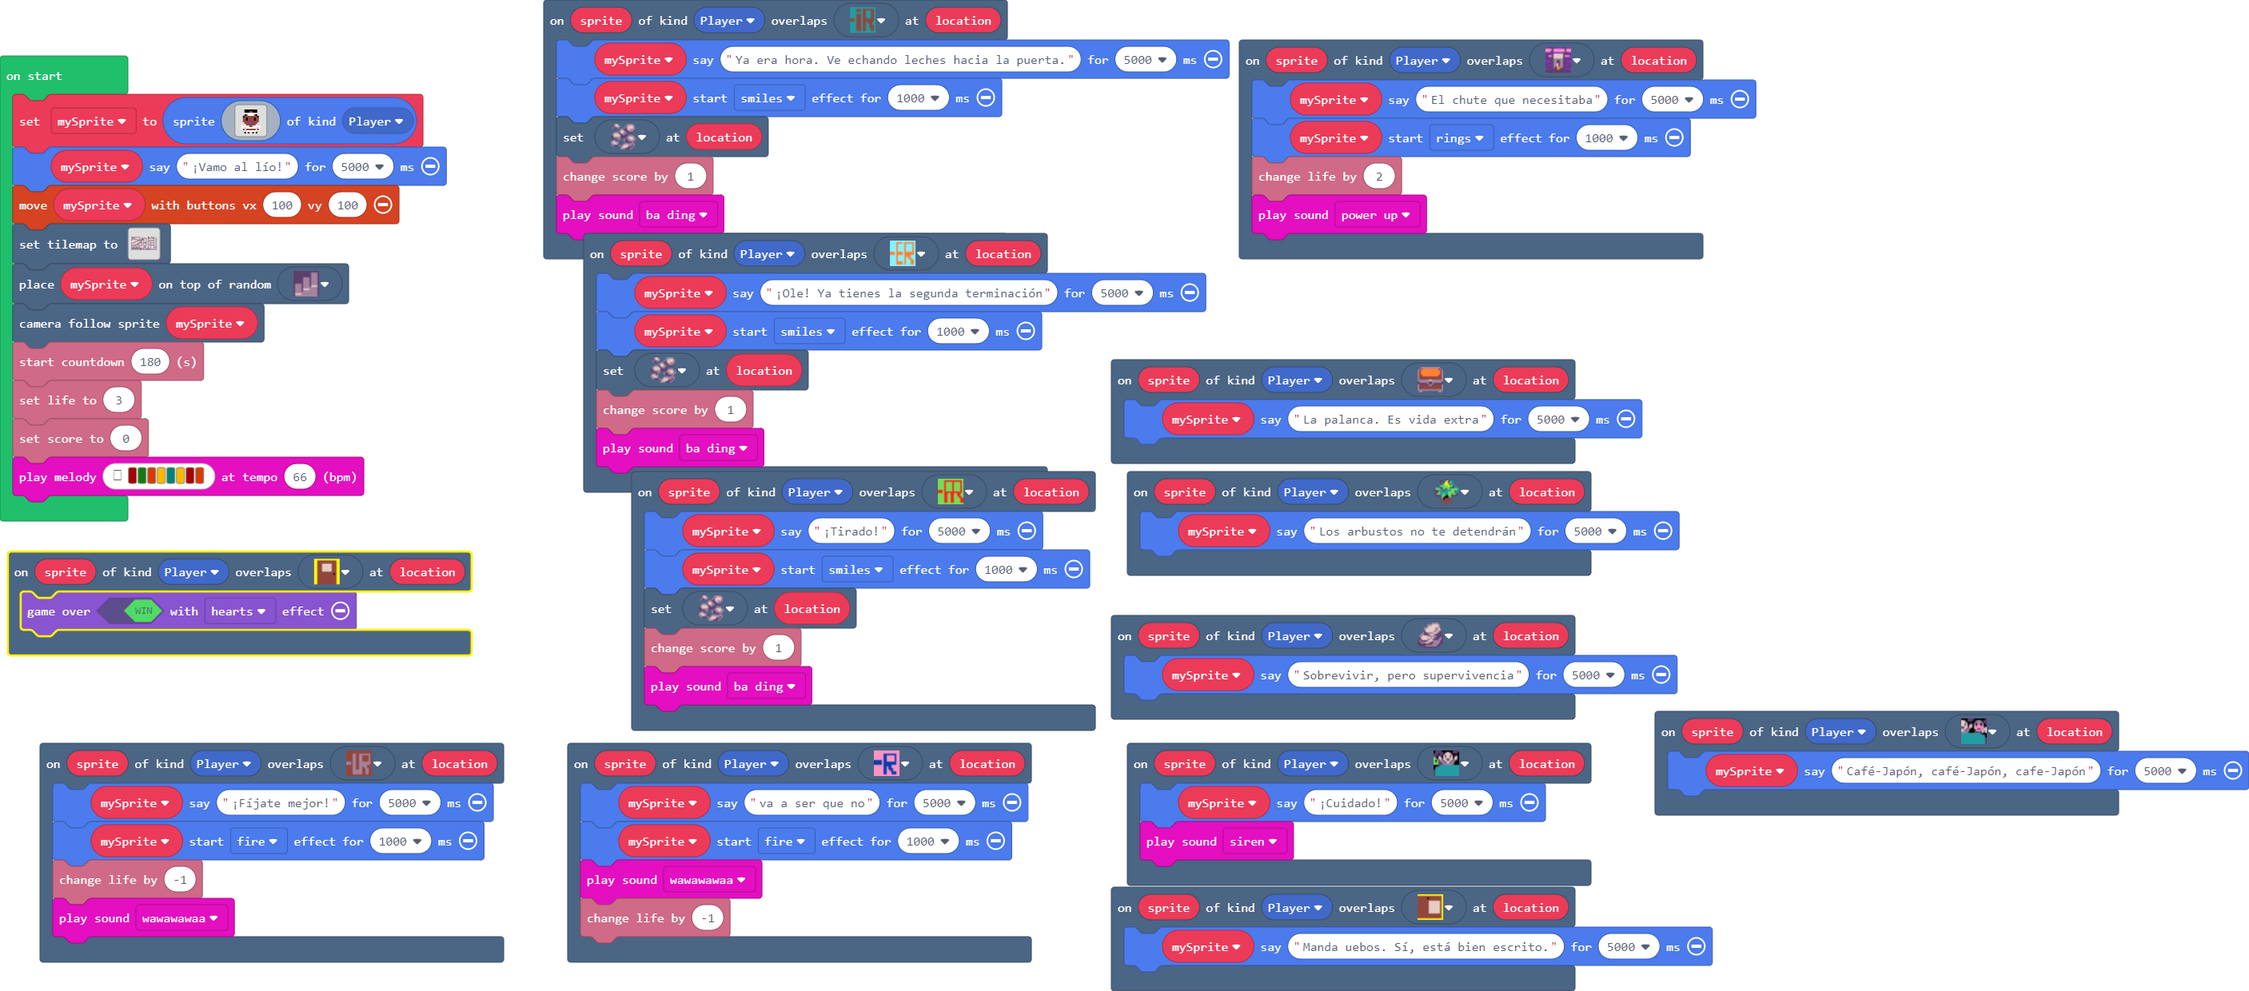
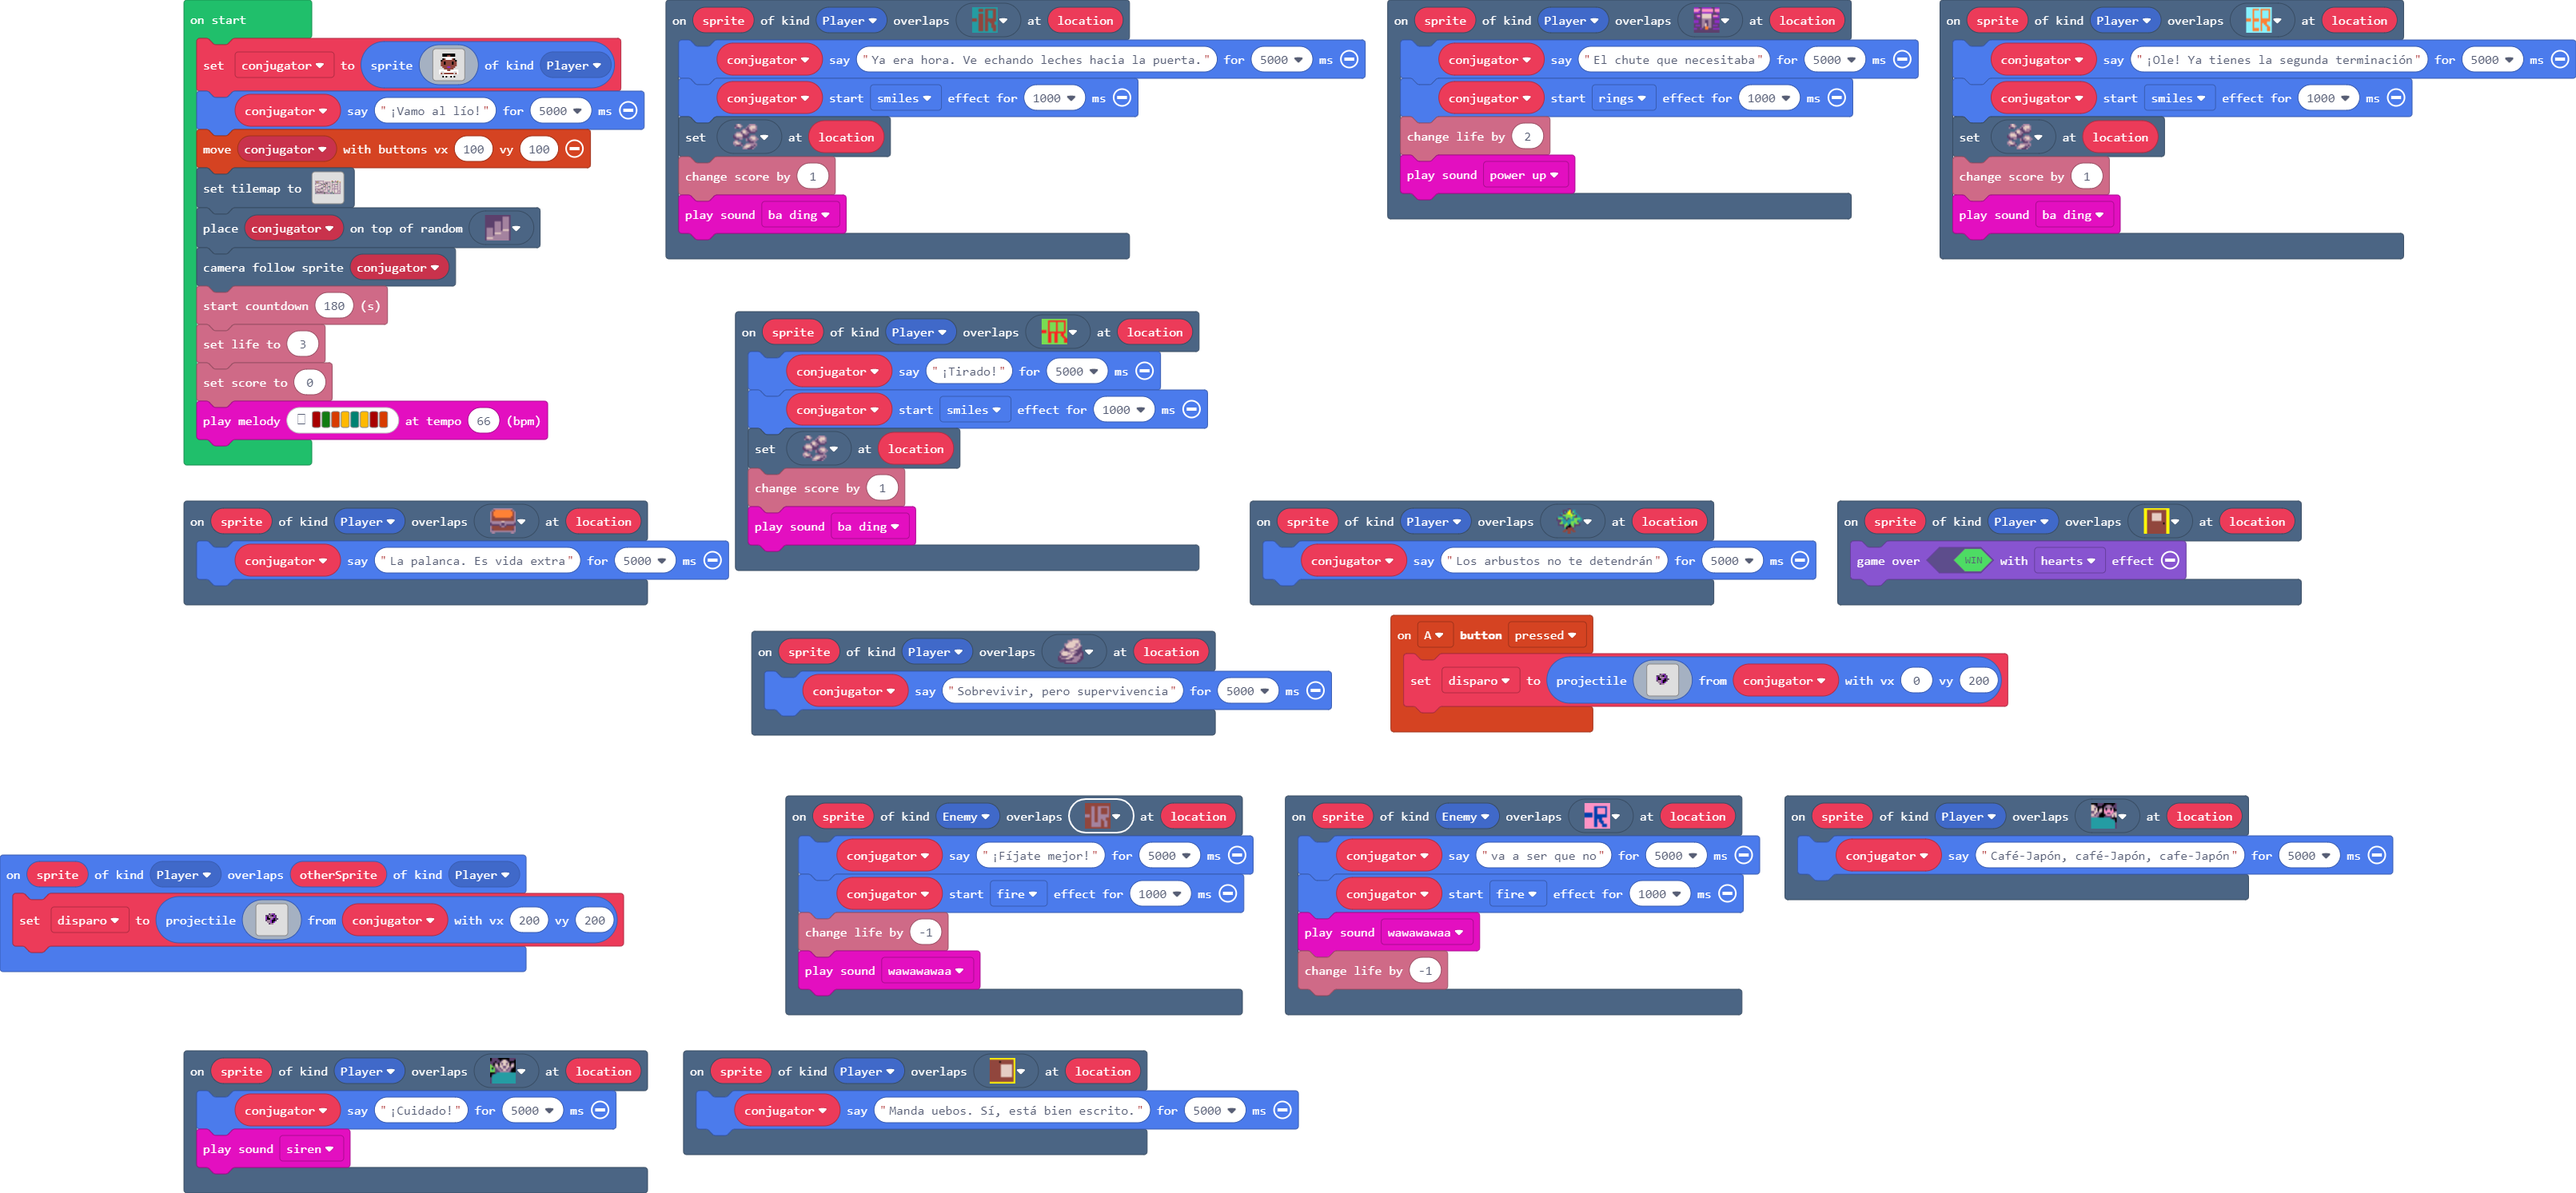
Update main.blocks, main.ts

diff --git a/main.ts b/main.ts
@@ -172,68 +172,109 @@ e e e e e e e e e e e e e e e e
 `
 }
 scene.onOverlapTile(SpriteKind.Player, myTiles.tile1, function (sprite, location) {
-    mySprite.say("Manda uebos. Sí, está bien escrito.", 5000)
+    conjugator.say("Manda uebos. Sí, está bien escrito.", 5000)
 })
 scene.onOverlapTile(SpriteKind.Player, sprites.dungeon.purpleSwitchDown, function (sprite, location) {
-    mySprite.say("El chute que necesitaba", 5000)
-    mySprite.startEffect(effects.rings, 1000)
+    conjugator.say("El chute que necesitaba", 5000)
+    conjugator.startEffect(effects.rings, 1000)
     info.changeLifeBy(2)
     music.powerUp.play()
 })
-scene.onOverlapTile(SpriteKind.Player, myTiles.tile5, function (sprite, location) {
-    mySprite.say("va a ser que no", 5000)
-    mySprite.startEffect(effects.fire, 1000)
-    music.wawawawaa.play()
-    info.changeLifeBy(-1)
-})
 scene.onOverlapTile(SpriteKind.Player, myTiles.tile6, function (sprite, location) {
-    mySprite.say("¡Ole! Ya tienes la segunda terminación", 5000)
-    mySprite.startEffect(effects.smiles, 1000)
+    conjugator.say("¡Ole! Ya tienes la segunda terminación", 5000)
+    conjugator.startEffect(effects.smiles, 1000)
     tiles.setTileAt(location, sprites.castle.rock2)
     info.changeScoreBy(1)
     music.baDing.play()
 })
 scene.onOverlapTile(SpriteKind.Player, myTiles.tile4, function (sprite, location) {
-    mySprite.say("¡Tirado!", 5000)
-    mySprite.startEffect(effects.smiles, 1000)
+    conjugator.say("¡Tirado!", 5000)
+    conjugator.startEffect(effects.smiles, 1000)
     tiles.setTileAt(location, sprites.castle.rock2)
     info.changeScoreBy(1)
     music.baDing.play()
 })
 scene.onOverlapTile(SpriteKind.Player, sprites.builtin.crowd1, function (sprite, location) {
-    mySprite.say("Café-Japón, café-Japón, cafe-Japón", 5000)
+    conjugator.say("Café-Japón, café-Japón, cafe-Japón", 5000)
 })
 scene.onOverlapTile(SpriteKind.Player, sprites.castle.rock1, function (sprite, location) {
-    mySprite.say("Sobrevivir, pero supervivencia", 5000)
+    conjugator.say("Sobrevivir, pero supervivencia", 5000)
 })
-scene.onOverlapTile(SpriteKind.Player, myTiles.tile8, function (sprite, location) {
-    mySprite.say("¡Fíjate mejor!", 5000)
-    mySprite.startEffect(effects.fire, 1000)
-    info.changeLifeBy(-1)
+controller.A.onEvent(ControllerButtonEvent.Pressed, function () {
+    disparo = sprites.createProjectileFromSprite(img`
+. . . . . . . . . . . . . . . . 
+. . . . . . . . . . . . . . . . 
+. . . . . . . . . . . . . . . . 
+. . . . . . . . . . . . . . . . 
+. . . . . . c b a c . . . . . . 
+. . . . c c b c f a c . . . . . 
+. . . . a f b b b a c . . . . . 
+. . . . a f f b a f c c . . . . 
+. . . . c b b a f f c . . . . . 
+. . . . . b b a f a . . . . . . 
+. . . . . . c b b . . . . . . . 
+. . . . . . . . . . . . . . . . 
+. . . . . . . . . . . . . . . . 
+. . . . . . . . . . . . . . . . 
+. . . . . . . . . . . . . . . . 
+. . . . . . . . . . . . . . . . 
+`, conjugator, 0, 200)
+})
+scene.onOverlapTile(SpriteKind.Enemy, myTiles.tile5, function (sprite, location) {
+    conjugator.say("va a ser que no", 5000)
+    conjugator.startEffect(effects.fire, 1000)
     music.wawawawaa.play()
+    info.changeLifeBy(-1)
 })
 scene.onOverlapTile(SpriteKind.Player, sprites.castle.saplingPine, function (sprite, location) {
-    mySprite.say("Los arbustos no te detendrán", 5000)
+    conjugator.say("Los arbustos no te detendrán", 5000)
 })
 scene.onOverlapTile(SpriteKind.Player, myTiles.tile7, function (sprite, location) {
-    mySprite.say("Ya era hora. Ve echando leches hacia la puerta.", 5000)
-    mySprite.startEffect(effects.smiles, 1000)
+    conjugator.say("Ya era hora. Ve echando leches hacia la puerta.", 5000)
+    conjugator.startEffect(effects.smiles, 1000)
     tiles.setTileAt(location, sprites.castle.rock2)
     info.changeScoreBy(1)
     music.baDing.play()
 })
 scene.onOverlapTile(SpriteKind.Player, sprites.dungeon.chestClosed, function (sprite, location) {
-    mySprite.say("La palanca. Es vida extra", 5000)
+    conjugator.say("La palanca. Es vida extra", 5000)
 })
 scene.onOverlapTile(SpriteKind.Player, myTiles.tile2, function (sprite, location) {
     game.over(true, effects.hearts)
 })
+sprites.onOverlap(SpriteKind.Player, SpriteKind.Player, function (sprite, otherSprite) {
+    disparo = sprites.createProjectileFromSprite(img`
+. . . . . . . . . . . . . . . . 
+. . . . . . . . . . . . . . . . 
+. . . . . . . . . . . . . . . . 
+. . . . . . . . . . . . . . . . 
+. . . . . . c b a c . . . . . . 
+. . . . c c b c f a c . . . . . 
+. . . . a f b b b a c . . . . . 
+. . . . a f f b a f c c . . . . 
+. . . . c b b a f f c . . . . . 
+. . . . . b b a f a . . . . . . 
+. . . . . . c b b . . . . . . . 
+. . . . . . . . . . . . . . . . 
+. . . . . . . . . . . . . . . . 
+. . . . . . . . . . . . . . . . 
+. . . . . . . . . . . . . . . . 
+. . . . . . . . . . . . . . . . 
+`, conjugator, 200, 200)
+})
 scene.onOverlapTile(SpriteKind.Player, sprites.builtin.crowd4, function (sprite, location) {
-    mySprite.say("¡Cuidado!", 5000)
+    conjugator.say("¡Cuidado!", 5000)
     music.siren.play()
 })
-let mySprite: Sprite = null
-mySprite = sprites.create(img`
+scene.onOverlapTile(SpriteKind.Enemy, myTiles.tile8, function (sprite, location) {
+    conjugator.say("¡Fíjate mejor!", 5000)
+    conjugator.startEffect(effects.fire, 1000)
+    info.changeLifeBy(-1)
+    music.wawawawaa.play()
+})
+let disparo: Sprite = null
+let conjugator: Sprite = null
+conjugator = sprites.create(img`
 . . . . . . . . . . . . 
 . . f f f f f f f f . . 
 . . f f f e e f f f . . 
@@ -251,8 +292,8 @@ mySprite = sprites.create(img`
 . . . 1 1 1 1 1 1 . . . 
 . . f 1 f . . f 1 f . . 
 `, SpriteKind.Player)
-mySprite.say("¡Vamo al lío!", 5000)
-controller.moveSprite(mySprite, 100, 100)
+conjugator.say("¡Vamo al lío!", 5000)
+controller.moveSprite(conjugator, 100, 100)
 tiles.setTilemap(tiles.createTilemap(
[1 lines of base64/hex data omitted]
             img`
@@ -272,8 +313,8 @@ tiles.setTilemap(tiles.createTilemap(
             [myTiles.tile0,sprites.builtin.brick,sprites.vehicle.roadHorizontal,sprites.vehicle.roadIntersection1,sprites.vehicle.roadVertical,sprites.vehicle.roadTurn4,sprites.dungeon.floorLight1,sprites.dungeon.floorDark3,sprites.dungeon.stairEast,sprites.dungeon.stairLarge,sprites.dungeon.stairNorth,sprites.dungeon.greenSwitchDown,sprites.dungeon.doorClosedNorth,sprites.builtin.forestTiles16,sprites.builtin.crowd5,sprites.vehicle.roadIntersection3,sprites.vehicle.roadTurn1,sprites.vehicle.roadTurn2,sprites.builtin.crowd9,sprites.dungeon.hazardSpike,sprites.vehicle.roadTurn3,sprites.vehicle.roadIntersection2,sprites.castle.saplingOak,sprites.castle.shrub,sprites.castle.rock0,sprites.castle.rock2,sprites.castle.rock1,sprites.vehicle.roadIntersection4,sprites.castle.saplingPine,sprites.builtin.crowd1,sprites.builtin.crowd0,sprites.dungeon.buttonTeal,sprites.dungeon.hazardWater,sprites.dungeon.hazardHole,sprites.dungeon.chestClosed,sprites.dungeon.purpleSwitchDown,myTiles.tile1,sprites.dungeon.stairLadder,sprites.builtin.forestTiles0,sprites.dungeon.chestOpen,sprites.dungeon.collectibleRedCrystal,sprites.dungeon.collectibleInsignia,myTiles.tile2,myTiles.tile3,myTiles.tile4,myTiles.tile5,myTiles.tile6,myTiles.tile7,myTiles.tile8,sprites.builtin.crowd4,sprites.builtin.crowd2,sprites.builtin.crowd6,sprites.builtin.crowd7,sprites.dungeon.stairWest,sprites.castle.tilePath7],
             TileScale.Sixteen
         ))
-tiles.placeOnRandomTile(mySprite, sprites.dungeon.stairLarge)
-scene.cameraFollowSprite(mySprite)
+tiles.placeOnRandomTile(conjugator, sprites.dungeon.stairLarge)
+scene.cameraFollowSprite(conjugator)
 info.startCountdown(180)
 info.setLife(3)
 info.setScore(0)
